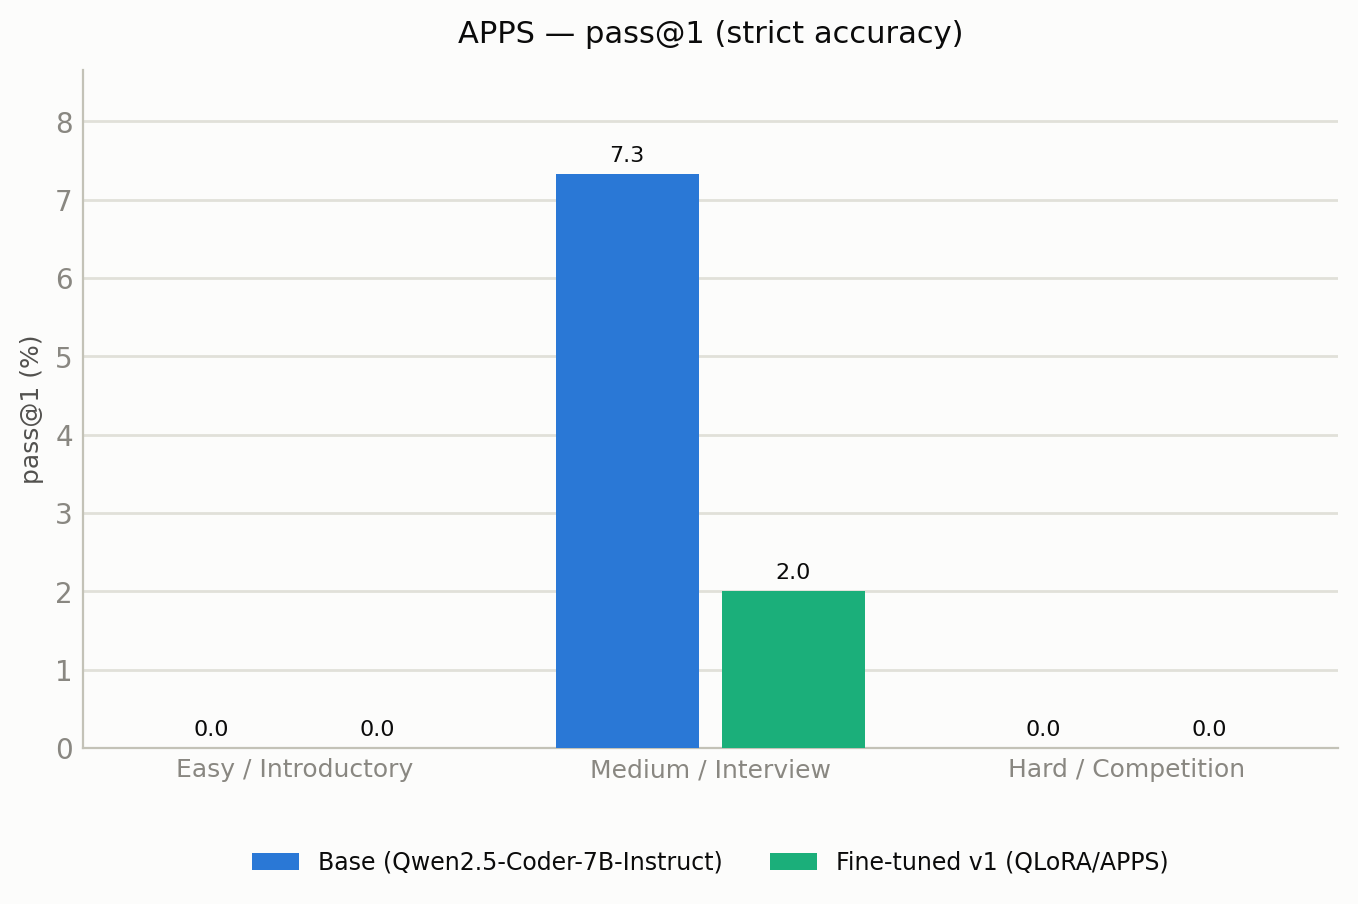
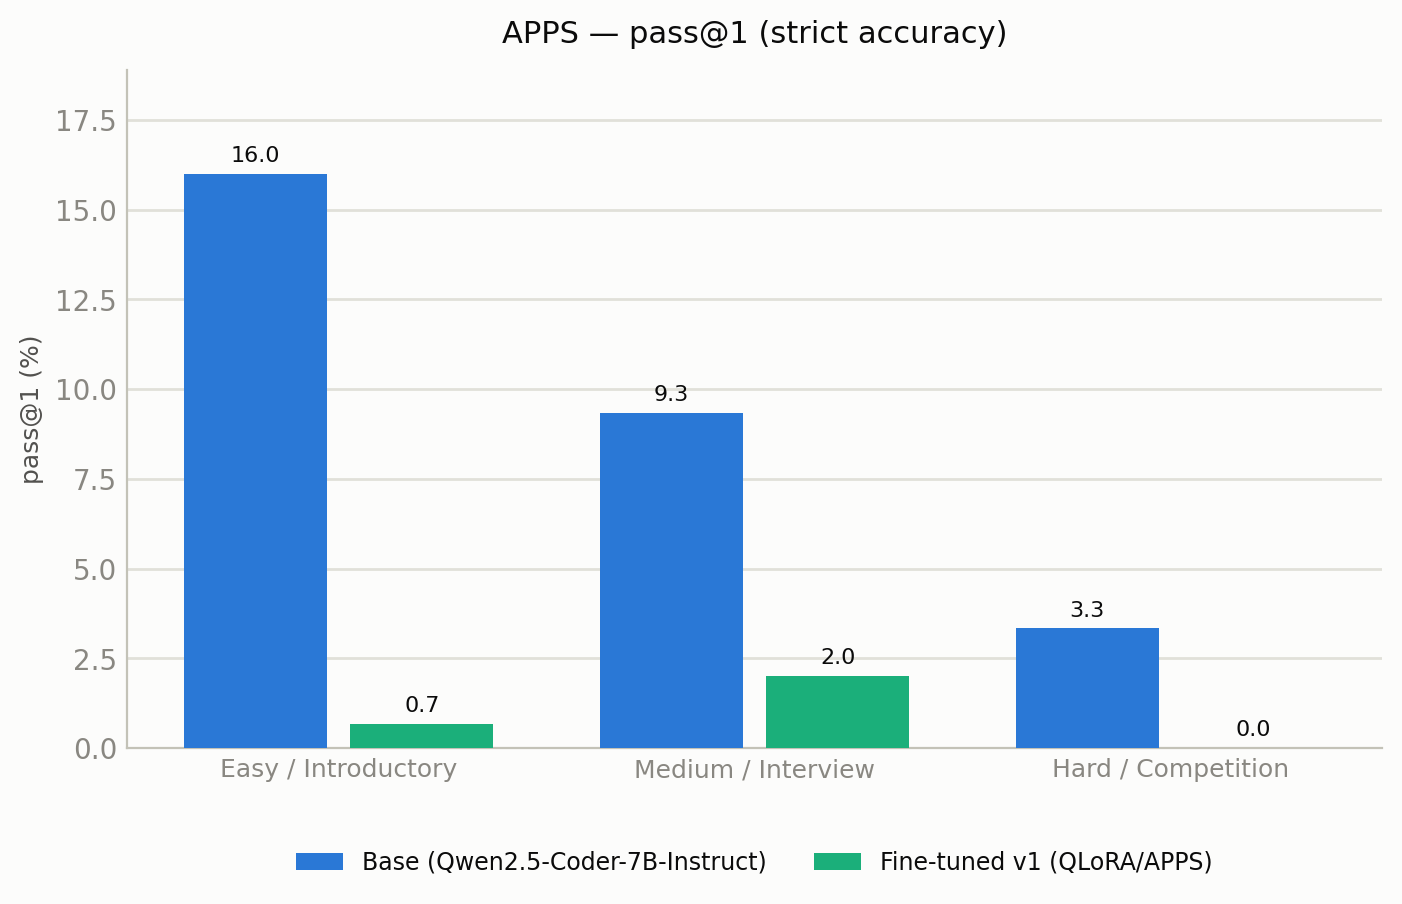
Completed: V1.0 (corrected evaluvation pipeline)

diff --git a/V2_PROGRESS.md b/V2_PROGRESS.md
@@ -17,13 +17,29 @@ window.
 
 | # | Decision | Options | Recommendation | Status |
 |---|---|---|---|---|
-| D1 | **Base model** | (a) keep Qwen2.5-Coder-7B-Instruct (clean v1→v2 ablation) · (b) DeepSeek-R1-Distill-Qwen-7B (reasoning base, higher hard-tier ceiling) | Lean (b) for ceiling; (a) if a controlled ablation matters more | `[!]` |
-| D2 | **Eval: keep or drop APPS** | (a) demote to sanity · (b) drop · (c) keep as co-headline | **DECIDED (c):** fix the APPS harness AND add LCB; report both as co-headlines | `[x]` |
-| D3 | **Eval precision** | bf16 headline + 4-bit "local-deploy" column · vs · 4-bit only (as v1) | bf16 headline, keep a 4-bit column | `[!]` |
-| D4 | **RL stretch goal** | attempt a tiny GRPO+QLoRA run · vs · SFT-only for v2 | SFT-only for the real result; GRPO only as a didactic write-up if time allows | `[!]` |
+| D1 | **Base model** | (a) keep Qwen2.5-Coder-7B-Instruct · (b) DeepSeek-R1-Distill-Qwen-7B | **DECIDED (a):** keep Qwen2.5-Coder-7B-Instruct — cleanest v1→v2 ablation (only the DATA changes: golfed solutions → reasoning traces), same OpenCodeReasoning recipe that took a 7B to ~51% LCB. | `[x]` |
+| D2 | **Eval: keep or drop APPS** | (a) demote to sanity · (b) drop · (c) keep as co-headline | **DECIDED (c):** keep APPS (now scored by `score_apps.py`) AND add LCB, as co-headlines. | `[x]` |
+| D3 | **Eval precision** | bf16 headline + 4-bit column · vs · 4-bit only | **DECIDED (split):** the APPS v1→v2 continuity table stays **4-bit** (matches the saved v1 generations, apples-to-apples); the **LiveCodeBench** headline + frontier comparison runs **bf16** (don't cripple our model vs full-precision APIs). | `[x]` |
+| D4 | **RL stretch goal** | tiny GRPO+QLoRA · vs · SFT-only | **DECIDED:** SFT-only for the real v2 result. GRPO+QLoRA only as an optional didactic experiment if time allows — a full RL run needs a datacenter (DeepCoder = 32×H100 × 2.5 wks). | `[x]` |
 
-**Eval approach (DECIDED):** diagnose v1 first, then rebuild. `eval/diagnose_apps.py`
-re-executes saved v1 generations against real APPS tests to prove *why* base scored 0%.
+**Eval approach (DECIDED):** diagnose v1 first, then rebuild. Outcome: v1 harness
+scorer was broken; replaced by `eval/score_apps.py`; v1 numbers corrected (base
+16.0/9.3/3.3, fine-tune 0.7/2.0/0.0 strict).
+
+### v2 design notes settled today (2026-08-17)
+- **Data = OpenCodeReasoning (Python).** Pick a session-sized subset (target ~10–20k
+  traces to fit a free T4); each example rendered as `problem → <think>reasoning</think>
+  → clean solution` inside Qwen's chat template. Prompt-mask everything before the
+  assistant turn. Keep `parse_int=str` guard from v1.
+- **Long-sequence cost:** reasoning traces are long → need larger `max_seq_len`
+  (~4–8k) than v1, which raises VRAM/time on a T4. Budget for it (fewer steps, grad
+  accumulation, aggressive checkpointing).
+- **Eval implication of reasoning:** at eval time the v2 model EMITS long `<think>`
+  before code → generation needs a large `max_new_tokens`, and code extraction must
+  take the **last** ```python fence after the reasoning. `score_apps.py` scores
+  already-extracted code, so this lives in the generation/postprocess step.
+- **Firewall unchanged:** OpenCodeReasoning (train) ≠ APPS-test (eval) ≠ LiveCodeBench
+  (eval only, never trained on).
 
 ---
 
@@ -31,10 +47,12 @@ re-executes saved v1 generations against real APPS tests to prove *why* base sco
 - [x] Survey base-model CP performance, existing projects, RL techniques, datasets/benchmarks (2026-08-17 web survey → `CLAUDE.md §3`)
 - [x] Diagnose v1 eval as a first-class bottleneck (base 0% on APPS-introductory red flag)
 - [x] Update `CLAUDE.md §3` with v2 research + plan + eval overhaul
-- [ ] Resolve D1–D4 above
+- [x] Resolve D1–D4 (all decided 2026-08-17 — see table)
+- [x] Correct & re-publish v1 results (scores.json, report.md, figures, README, CLAUDE.md, setup.md)
 
-## Phase 1 — Data (fix root cause #1) `[ ]`
-- [ ] Choose reasoning-trace dataset (OpenCodeReasoning primary; consider CodeContests+/TACO-Verified for cleaner tests)
+## Phase 1 — Data (fix root cause #1) `[ ]`  ← NEXT SESSION STARTS HERE
+- [x] Dataset chosen: **OpenCodeReasoning** (Python reasoning traces); base stays Qwen2.5-Coder-7B-Instruct (D1)
+- [ ] Decide subset size that fits a free T4 session (~10–20k traces) + max_seq_len (~4–8k)
 - [ ] Write `data/prepare_reasoning_traces.py` (Parquet loader; keep `parse_int=str` guard) → `data/*_train.jsonl`
 - [ ] Format each example as `problem → <think> trace </think> → clean solution` inside the chat template
 - [ ] Sanity: inspect 10 rendered training samples; confirm targets are *reasoning + clean code*, not golfed one-liners
@@ -57,10 +75,10 @@ re-executes saved v1 generations against real APPS tests to prove *why* base sco
 - [x] **Confirmed on 100 aligned introductory: base = 12% strict (13% normalized), NOT 0%.** → v1's harness APPS scorer is BROKEN (threw away valid ~12%-correct generations). Root cause of the whole v1 "base looks terrible" impression is a **scoring bug**, not the model. (Also confirms APPS strict exact-match penalizes multi-answer problems.)
 - [x] **FIX written: `eval/score_apps.py`** — standalone verified scorer that replaces the fragile bigcode APPS scorer. Re-scores the SAVED generations (no GPU): aligned via difficulty config, stdin + call-based support, whitespace-normalized, emits per-tier `*_metrics.rescored.json` + `results/scores.rescored.json` for `build_results_table.py`. Generation was never broken, so no regeneration needed for a corrected v1 table.
 - [x] **Gate PASSED:** `score_apps.py` base/introductory = **16.0% strict, 34.3% avg** (n=150) vs v1's reported 0.0%/0.84%. Confirms the v1 harness scorer was broken and the base is respectable. (Fixed two issues: single-threaded slowness → now parallel across CPU cores w/ live progress + 4s timeout; and a missing output-dir mkdir.)
-- [ ] **Full run:** both models × 3 tiers → `results/scores.rescored.json` → corrected v1 comparison table.
-- [ ] Render corrected table: `build_results_table.py --scores results/scores.rescored.json`; update `README.md` + `CLAUDE.md §2` with the TRUE v1 numbers (base and fine-tune both re-scored — v1's medium=7.33%/hard=0% came from the same broken scorer and are also suspect).
+- [x] **Full run done (both models × 3 tiers, corrected):** base 16.0/9.3/3.3 strict (34.3/36.3/16.2 avg); fine-tune 0.7/2.0/0.0 (3.1/6.8/1.3). All tiers `call-based=0` → all stdin, fully trusted path. **Base beats fine-tune on every tier & both metrics, at correct magnitudes.** (Parallel scorer: base introductory ~fast now; fine-tune tiers fast since most don't compile.)
+- [x] **Corrected results committed to repo (done locally from pasted numbers, incl. figures — matplotlib is local):** updated `results/scores.json`, regenerated `results/report.md` + `results/figures/apps.png`/`apps_avg.png`, updated `CLAUDE.md §2` and `README.md` (Results + a new "the harness can be the bug" conclusion). Old bogus numbers preserved as record in `CLAUDE.md`.
+- [x] **APPS scorer replaced, not patched:** `score_apps.py` supersedes the broken bigcode APPS scoring path entirely (no need to fix the harness's comparison/prompt).
 - [ ] Then v2-quality eval: regenerate with bf16 + reasoning-prompt + avg@k, score with the same `score_apps.py`; add LiveCodeBench (functional) as co-headline.
-- [ ] Based on that: fix the APPS harness scoring/prompt (comparison strictness and/or output-format contract) so base measures fairly
 - [ ] Add **HumanEval+/MBPP+ sanity bench**; confirm *base* scores ~85% → proves the pipeline works (gate before trusting any CP number)
 - [ ] Stand up **`lcb_runner`** (LiveCodeBench); pin one version/window (v5 or v6)
 - [ ] Verify a known-correct solution scores 1.0 (execution sanity) before any full run
@@ -95,3 +113,13 @@ re-executes saved v1 generations against real APPS tests to prove *why* base sco
   introductory → **v1 harness APPS scorer is broken.** Added `eval/score_apps.py`
   (verified standalone scorer) to re-score saved generations GPU-free. Fine-tune's
   bracket artifact remains real. Next: run score_apps.py, render corrected v1 table.
+- 2026-08-17 — **Corrected v1 eval published.** Full re-score: base 16.0/9.3/3.3 vs
+  fine-tune 0.7/2.0/0.0 (strict). `score_apps.py` parallelized + mkdir fix. Updated
+  scores.json/report.md/figures/CLAUDE.md/README.md locally. **Diagnosis+correction
+  phase COMPLETE.**
+- 2026-08-17 (session wrap) — **All decisions closed (D1–D4).** D1: keep Qwen2.5-
+  Coder-7B-Instruct. D3: APPS table 4-bit / LCB headline bf16. D4: SFT-only primary.
+  Doc consistency pass done: README got a dedicated "evaluation-harness bug" section
+  + corrected observations/conclusions/next-steps; setup.md eval steps rewritten to
+  use `score_apps.py`; v2 design notes recorded. **NEXT SESSION: Phase 1** — pick
+  OpenCodeReasoning subset size + write `data/prepare_reasoning_traces.py`.

diff --git a/README.md b/README.md
@@ -9,7 +9,10 @@ The purpose of the project is a rigorous, honest before/after measurement, not a
 state-of-the-art performance. As documented in the Results section below, the v1
 fine-tune **regressed** relative to the base model; the evaluation was designed to
 detect that outcome rather than assume an improvement, and the cause is analysed
-in detail.
+in detail. Getting there also required finding and fixing an **evaluation-scoring
+bug** in the third-party harness that initially masked the base model's true
+ability (it reported 0 percent on easy problems the base actually solves ~16
+percent of the time) — see "The evaluation-harness bug" below.
 
 ---
 
@@ -53,9 +56,12 @@ Hugging Face Hub is the handoff point between them.
    solution pairs), checkpoint regularly, and push the merged model and adapter to
    the Hub.
 2. **Evaluation (separate clean environment).** Pull the base and fine-tuned
-   models from the Hub and run bigcode-evaluation-harness on the held-out APPS
-   test split, executing generated code against hidden tests to compute pass@1 per
-   difficulty tier.
+   models from the Hub and use bigcode-evaluation-harness to *generate* solutions
+   on the held-out APPS test split. Scoring is then done by our own
+   `eval/score_apps.py`, which executes each solution against the hidden tests and
+   computes pass@1 per difficulty tier. (The harness's *own* APPS scorer was found
+   to be broken for this setup and is no longer trusted — see "The
+   evaluation-harness bug".)
 
 ### Key implementation decisions
 
@@ -74,10 +80,17 @@ Hugging Face Hub is the handoff point between them.
 
 Both models were evaluated identically: 4-bit weights, fp16 compute, single-sample
 generation at temperature 0.2, and the same Qwen chat-template prompt. Generated
-code was executed against APPS' hidden test cases by the harness. The reported
-**pass@1 is strict accuracy** — a problem counts as solved only if every hidden
-test passes. A softer secondary metric, the average fraction of individual test
-cases passed, is used for additional resolution.
+code was executed against APPS' hidden test cases. The reported **pass@1 is strict
+accuracy** — a problem counts as solved only if every hidden test passes. A softer
+secondary metric, the average fraction of individual test cases passed, is used for
+additional resolution.
+
+The numbers reported here were **re-scored** by `eval/score_apps.py` after the
+original harness scorer was found to be broken. The re-scorer aligns each saved
+generation to the correct problem (via the difficulty config), executes it against
+the hidden tests with a whitespace-normalized comparison, and evaluates up to 25
+tests per problem. The saved generations themselves were unchanged — only the
+scoring was fixed.
 
 ---
 
@@ -93,26 +106,37 @@ complementary metrics are reported:
   pass@1 is near zero.
 
 **The v1 QLoRA fine-tune underperformed the base model on every tier and under
-both metrics.**
+both metrics** — but arriving at trustworthy numbers required fixing the
+evaluation itself first.
+
+> **Correction (2026-08-17).** The original v1 run used
+> bigcode-evaluation-harness, whose APPS scorer was broken for this setup: it
+> reported the base model at **0.0 percent** pass@1 on the easy and hard tiers for
+> generations that are in fact ~16 and ~3 percent correct. The generations were
+> fine — the harness's scoring/orchestration mis-aligned each solution against the
+> wrong problem's tests and discarded valid answers. The numbers below are
+> **re-scored** with `eval/score_apps.py`, a standalone, alignment-verified scorer
+> that executes each saved solution against the correct hidden tests
+> (whitespace-normalized, up to 25 tests per problem). The debugging trail is in
+> `eval/diagnose_apps.py` and `V2_PROGRESS.md`.
 
 ### pass@1 (strict accuracy)
 
 ![APPS pass@1 by difficulty — base versus fine-tuned v1](./results/figures/apps.png)
 
-On the medium (interview) tier — the only tier where either model solved any
-problem outright — the base model reached 7.3 percent pass@1 while the fine-tune
-reached 2.0 percent. Both models scored 0 percent on the easy and hard tiers at
-this sample size, which is why the second metric is informative.
+The base is a respectable coder whose accuracy falls monotonically with difficulty
+— 16.0 percent on easy, 9.3 percent on medium, 3.3 percent on hard. The fine-tune
+manages only 0.7, 2.0, and 0.0 percent respectively: it never leads on any tier.
 
 ### Average test-case pass rate
 
 ![APPS average test-case pass rate by difficulty — base versus fine-tuned v1](./results/figures/apps_avg.png)
 
-With partial credit the gap is visible on every tier, and the base leads
-throughout: 30.2 versus 7.4 percent on medium, 0.84 versus 0.22 percent on easy,
-and 0.54 versus 0.0 percent on hard. In other words, the fine-tune is not merely
-failing to fully solve problems — it is getting fewer individual test cases right
-across the board.
+With partial credit the gap is stark and consistent: the base passes 34.3 / 36.3 /
+16.2 percent of individual hidden tests across easy / medium / hard, versus
+3.1 / 6.8 / 1.3 percent for the fine-tune. The fine-tune is not merely failing to
+fully solve problems — it gets far fewer individual test cases right across the
+board, because much of its output does not even compile.
 
 Both tables and both figures are produced by `eval/build_results_table.py` from
 `results/scores.json`; the full generated report is in
@@ -159,6 +183,11 @@ diagnosis of its cause.
   solutions and to catastrophic forgetting, not to the QLoRA method itself.
 - A trustworthy evaluation requires matching the evaluation prompt to the
   training prompt format; mismatches can masquerade as catastrophic model failure.
+- **The benchmark harness can itself be the bug.** A capable base model scoring
+  0 percent on *introductory* problems was the red flag that exposed a broken APPS
+  scorer; the true base rate is ~16 percent. Validate the scorer (a known-good
+  model should clear an easy tier) before trusting any comparison, and prefer a
+  standalone, alignment-checked scorer over a fragile third-party harness.
 - Reporting a negative result honestly, with a clear root-cause analysis, is a
   legitimate and informative outcome for this kind of study.
 
@@ -166,16 +195,29 @@ diagnosis of its cause.
 
 ## Limitations and next steps (v2)
 
-- **Data selection:** stop training on the shortest solution; use cleaner,
-  medium-length or multiple solutions per problem so the model learns good code
-  rather than golfed code.
-- **Reduce forgetting:** lower the learning rate and/or number of steps, and
-  consider mixing in general instruction data.
-- **Broader evaluation:** re-run on the same 150 problems per tier for a direct
-  v1-to-v2 comparison, and add a LiveCodeBench evaluation plus a published
-  frontier column for external context. LiveCodeBench is never used for training.
-- **Scale:** evaluate on a larger subset (or the full test set) once generation
-  throughput allows.
+The v1 post-mortem points to a clear v2 direction. The full plan and live status
+live in [`V2_PROGRESS.md`](./V2_PROGRESS.md); the essentials:
+
+- **Train on reasoning traces, not golfed solutions.** The root cause of v1 was
+  imitating the single *shortest* (golfed) APPS solution per problem. v2 keeps the
+  same base (Qwen2.5-Coder-7B-Instruct, for a clean before/after) but fine-tunes on
+  long chain-of-thought *reasoning traces* (e.g. the OpenCodeReasoning dataset,
+  which took a 7B to ~51 percent on LiveCodeBench with SFT alone). The model learns
+  *how to reason to a solution* rather than a terse code style.
+- **Reduce forgetting:** lower learning rate (~1e-4), fewer steps, optionally mix
+  in general instruction data; track a general-code sanity metric to prove no
+  regression.
+- **Fixed, broader evaluation:** re-use the corrected `eval/score_apps.py` on the
+  same 150 problems per tier for a direct v1-to-v2 comparison, add a
+  **HumanEval+/MBPP+ sanity bench** (also a forgetting guardrail), and make
+  **LiveCodeBench** the headline for a contamination-free comparison against
+  published frontier numbers. LiveCodeBench is never used for training.
+- **Reinforcement learning (stretch):** the strongest competitive-programming
+  models (e.g. DeepCoder-14B) are trained with RL on verifiable rewards — the code
+  is rewarded only when it passes the tests. A small GRPO+QLoRA experiment is a
+  possible didactic add-on, but a full RL run is out of scope for a single free GPU.
+- **Scale:** evaluate on a larger subset (or the full test set) once throughput
+  allows, and with full (uncapped) hidden-test scoring for the final numbers.
 
 ---
 

diff --git a/results/report.md b/results/report.md
@@ -1,14 +1,14 @@
 # Results — difficulty-stratified evaluation
 
-APPS held-out **test** split, 150 problems per difficulty tier, evaluated with bigcode-evaluation-harness. Both models: 4-bit, fp16 compute, single-sample (temp 0.2), prompted with the SAME Qwen chat template the fine-tune was trained in (fair comparison). Two metrics are reported: **pass@1** = strict accuracy (a problem counts only if ALL hidden tests pass), and **average test-case pass rate** = the mean fraction of individual hidden tests passed (partial credit, more resolution). The v1 QLoRA fine-tune (trained on the single *shortest* APPS solution per problem, 1 epoch) **underperformed the base on every tier and on both metrics** — see README.md for the analysis and the v2 plan. No frontier column: LiveCodeBench was not run in v1.
+APPS held-out **test** split, 150 problems per difficulty tier. Both models: 4-bit, single-sample (greedy, temp 0.2), prompted with the SAME Qwen chat template the fine-tune was trained in (fair comparison). **These numbers are RE-SCORED by `eval/score_apps.py`.** The original v1 run used bigcode-evaluation-harness, whose APPS scorer was broken for this setup — it reported 0.0% on introductory for base generations that are actually ~16% correct (the generations were fine; the harness's scoring/orchestration mis-aligned and threw them away). Scoring here is alignment-verified (difficulty config), executes each solution against the hidden tests, and is whitespace-normalized; metrics are computed over up to 25 hidden tests per problem (a small over-count vs. the full suite). Two metrics: **pass@1** = strict accuracy (ALL tested hidden tests pass) and **average test-case pass rate** = mean fraction of hidden tests passed (partial credit). Corrected finding: the un-tuned base is a respectable coder (16.0 / 9.3 / 3.3 pass@1, now correctly monotonic easy→hard), and the v1 QLoRA fine-tune — trained on the single *shortest* (golfed) APPS solution per problem, 1 epoch — **still underperformed the base on every tier and both metrics**, largely due to a learned broken-syntax (extra-closing-bracket) artifact. See README.md for analysis and the v2 plan.
 
 ### APPS — pass@1 (strict accuracy)
 
 | Difficulty | Base (Qwen2.5-Coder-7B-Instruct) | Fine-tuned v1 (QLoRA/APPS) |
 |---|---|---|
-| Easy / Introductory | pass@1 0.0 | pass@1 0.0 |
-| Medium / Interview | pass@1 7.3 | pass@1 2.0 |
-| Hard / Competition | pass@1 0.0 | pass@1 0.0 |
+| Easy / Introductory | pass@1 16.0 | pass@1 0.7 |
+| Medium / Interview | pass@1 9.3 | pass@1 2.0 |
+| Hard / Competition | pass@1 3.3 | pass@1 0.0 |
 
 _Problems per tier — Easy / Introductory: 150, Medium / Interview: 150, Hard / Competition: 150._
 
@@ -18,9 +18,9 @@ _Problems per tier — Easy / Introductory: 150, Medium / Interview: 150, Hard /
 
 | Difficulty | Base (Qwen2.5-Coder-7B-Instruct) | Fine-tuned v1 (QLoRA/APPS) |
 |---|---|---|
-| Easy / Introductory | 0.8 | 0.2 |
-| Medium / Interview | 30.2 | 7.4 |
-| Hard / Competition | 0.5 | 0.0 |
+| Easy / Introductory | 34.3 | 3.1 |
+| Medium / Interview | 36.3 | 6.8 |
+| Hard / Competition | 16.2 | 1.3 |
 
 _Problems per tier — Easy / Introductory: 150, Medium / Interview: 150, Hard / Competition: 150._
 

diff --git a/CLAUDE.md b/CLAUDE.md
@@ -29,14 +29,21 @@ before/after vs. the base checkpoint, reported transparently including where the
   `Shaurya-saini/qwen2.5-coder-7b-apps-qlora` (+ `…-lora` adapter).
 - **Evaluated:** base vs. fine-tuned on APPS test, 150 problems/tier, 4-bit,
   chat-templated prompt.
-- **Result (honest):** the v1 fine-tune **underperformed the base on every tier.**
+- **Result (honest, APPS numbers RE-SCORED 2026-08-17):** the v1 fine-tune
+  **underperformed the base on every tier.** The *original* v1 table was invalid —
+  bigcode-harness's APPS scorer was broken (reported base easy/hard = 0.0% for
+  generations that are actually ~16%/3.3% correct; see §8). Re-scored with
+  `eval/score_apps.py` (aligned, whitespace-normalized, ≤25 tests/problem):
 
 | Difficulty (APPS test, pass@1 = strict; avg test-case rate in parens) | Base | Fine-tuned v1 |
 |---|---|---|
-| Easy / Introductory | 0.0% (0.84%) | 0.0% (0.22%) |
-| Medium / Interview | 7.3% (30.2%) | 2.0% (7.4%) |
-| Hard / Competition | 0.0% (0.54%) | 0.0% (0.0%) |
+| Easy / Introductory | 16.0% (34.3%) | 0.7% (3.1%) |
+| Medium / Interview | 9.3% (36.3%) | 2.0% (6.8%) |
+| Hard / Competition | 3.3% (16.2%) | 0.0% (1.3%) |
 
+The corrected base is respectable and monotonic (easy>medium>hard); the fine-tune
+is genuinely worse everywhere (real broken-bracket artifact, not a scoring bug).
+The *original* bogus numbers were: base 0.0/7.3/0.0, ft 0.0/2.0/0.0 (strict).
 Two metrics are reported: **pass@1** (strict accuracy — all hidden tests pass) and
 **average test-case pass rate** (partial credit). Artifacts: `results/report.md`
 (two tables + two diagrams), `results/figures/apps.png` (pass@1) and
@@ -87,9 +94,10 @@ scope for a free T4** beyond a tiny didactic run.
   on **OpenCodeReasoning**-style long reasoning traces instead of golfed shortest
   solutions. *Still supervised imitation — but of the reasoning process + a clean
   solution, not a cryptic destination.* Directly fixes root causes 1 & 3.
-- **Base model (decide before training):** keep Qwen2.5-Coder-7B-Instruct (clean
-  v1→v2 ablation) *or* switch to **DeepSeek-R1-Distill-Qwen-7B** (reasoning base,
-  higher hard-tier ceiling).
+- **Base model (DECIDED 2026-08-17): keep Qwen2.5-Coder-7B-Instruct** — cleanest
+  v1→v2 ablation (only the DATA changes). Same recipe OpenCodeReasoning used to take
+  a 7B to ~51% LCB. (DeepSeek-R1-Distill-Qwen-7B was the higher-ceiling alternative,
+  not chosen — it would confound the ablation by changing base + data at once.)
 - **Anti-forgetting:** lower LR (~1e-4), fewer steps, optionally mix in general
   instruction data; track a general-code sanity metric (below) to prove no
   regression.

diff --git a/setup.md b/setup.md
@@ -109,13 +109,39 @@ LIMIT=150 NUM_PROCESSES=2 MODEL=<user>/qwen2.5-coder-7b-apps-qlora LABEL=finetun
 LIMIT=150 NUM_PROCESSES=2 MODEL=Qwen/Qwen2.5-Coder-7B-Instruct LABEL=base \
   HARNESS_MAIN=$(pwd)/main.py bash /path/to/SCM/eval/run_apps_eval.sh
 ```
-Metrics land in `results/apps/<label>/<task>_metrics.json`.
+Generations land in `results/apps/<label>/<task>_generations*.json`.
 
-### 4.5 Build results table + diagram
-Fill `results/scores.json` (copy `results/scores.template.json`) from the
-`*_metrics.json` files (`pass@1` = `strict_accuracy`), then:
+> **Do NOT trust the harness's own `*_metrics.json`.** Its APPS scorer was found
+> broken for this setup (it reported 0.0% on introductory for generations that are
+> ~16% correct — it mis-aligns solutions with the wrong problems' tests). The
+> *generations* are fine; only its *scoring* is wrong. Score with `score_apps.py`
+> instead (next step). If you only need generations, pass `--generation_only` is
+> not required — the wrapper already saves them.
+
+### 4.5 Score the generations with `score_apps.py` (replaces the harness scorer)
+`score_apps.py` re-scores the saved generations correctly: it aligns each solution
+to its problem via the difficulty config, executes against the hidden tests
+(stdin + call-based), compares whitespace-normalized, and writes both per-tier
+`*_metrics.rescored.json` and a consolidated `results/scores.rescored.json`. CPU-
+only, parallel across cores; needs `datasets`. Validation gate: base/introductory
+should be ~16%.
 ```bash
-python eval/build_results_table.py        # -> results/report.md + results/figures/*.png
+# both models, all tiers (up to 25 hidden tests/problem for speed)
+python /path/to/SCM/eval/score_apps.py \
+  --results-dir /path/to/SCM/results/apps --labels base,finetuned --max-tests 25 \
+  --scores-out /path/to/SCM/results/scores.rescored.json
+```
+To autopsy *why* a run scores low (static + execution + alignment self-check):
+```bash
+python /path/to/SCM/eval/diagnose_apps.py \
+  --generations results/apps/base/apps-introductory_generations_apps-introductory.json \
+  --tier introductory --label base --limit 30 --show-io
+```
+
+### 4.6 Build results table + diagram
+```bash
+python eval/build_results_table.py --scores results/scores.rescored.json \
+  --out results/report.md        # -> results/report.md + results/figures/*.png
 ```
 
 ---
